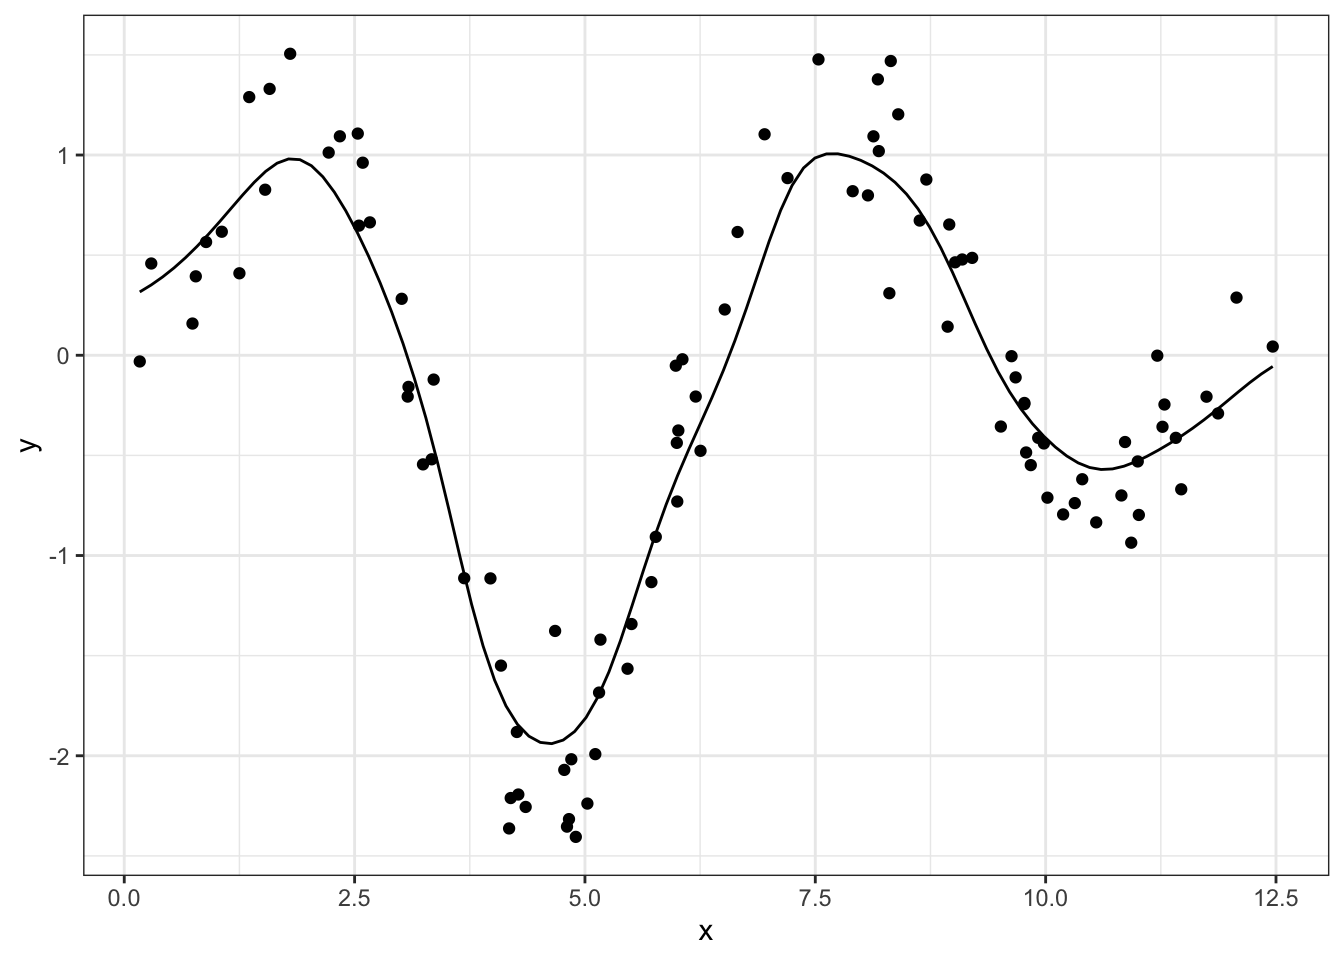
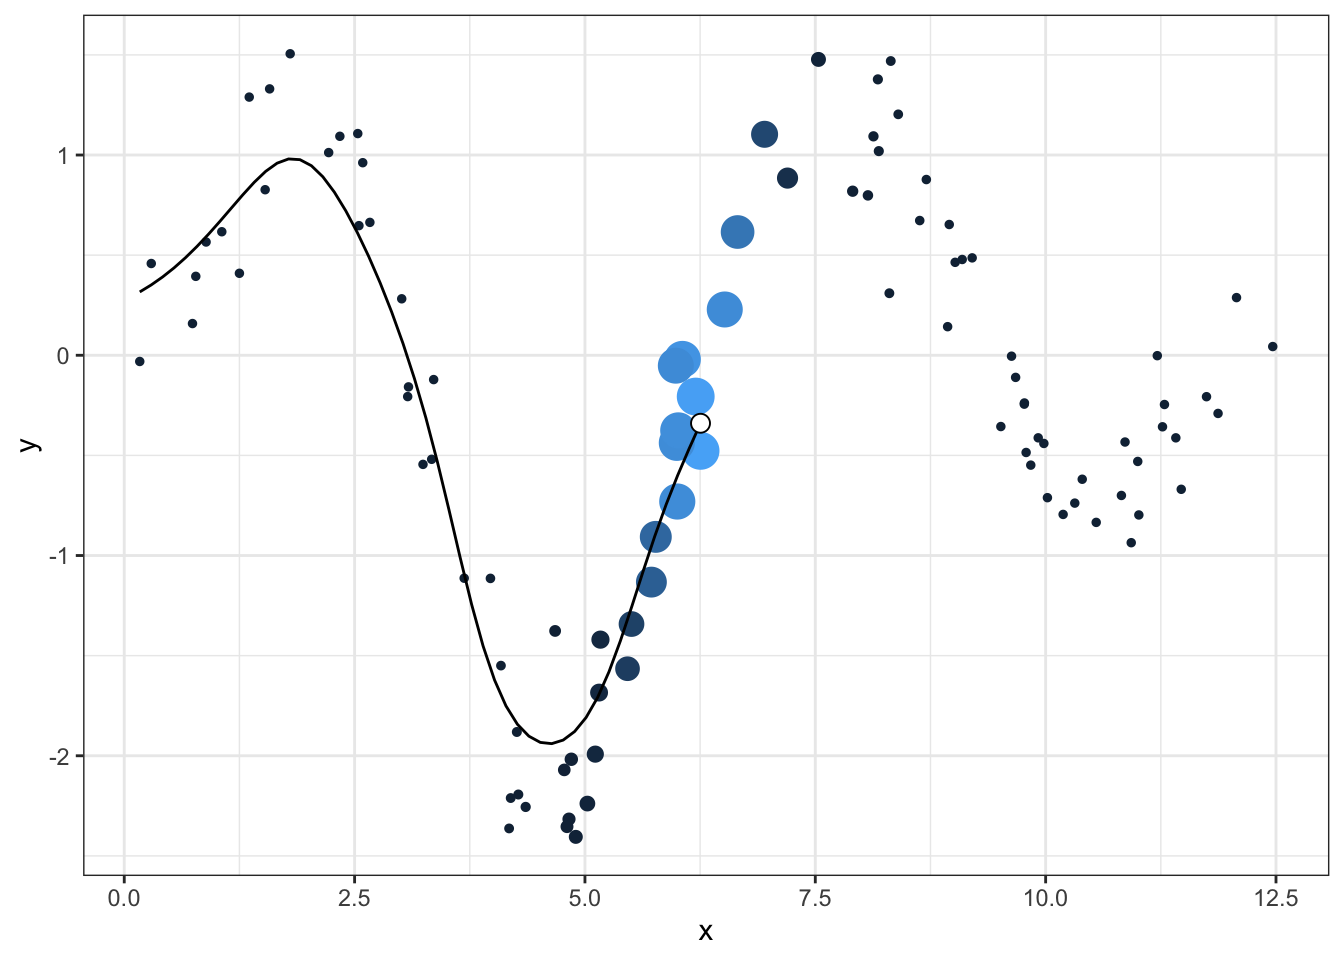
start of kernel4

diff --git a/content/posts/2021-02-13-visualizing-how-a-kernel-draws-a-smooth-line/index.html b/content/posts/2021-02-13-visualizing-how-a-kernel-draws-a-smooth-line/index.html
@@ -10,13 +10,13 @@ lastmod: '2021-02-13T13:19:38-05:00'
 layout: post
 type: post
 highlight: yes
-summary: blah.
+summary: How does software like Excel or R trace a smooth line through a series of points? It's easier to understand by visualizing how new values are created as a weighted mean of the existing data.
 ---
 
 
 
 <p>A few years ago, I <a href="https://towardsdatascience.com/how-does-a-computer-draw-a-smooth-line-a484176ac24e" target="_blank">wrote a script</a> that produced GIFs like the one below that visualize how a kernel smoother draws a line through a series of points:</p>
-<p><img src="img/kernel.gif" /></p>
+<p><img src="kernel.gif" /></p>
 <p>It was a quick but fun project that actually helped me understand how local regression works, so I figured I’d port it over to my new site and walk through the logic.</p>
 <p>It seems a little simple to state, but the point of any (two-dimensional) line is to map x-values to y-values. The challenge of drawing a smooth curve, as opposed to a straight line which could be achieved with ordinary least squares, is to let the line follow the points as it passes through their neighborhoods while ignoring data that is more distant.</p>
 <p>The way that kernel regression achieves such “local” effects is by defining a function (typically denoted as <span class="math inline">\(K\)</span>) that attributes weights to all the existing points based on how close they are to a theoretical new point.</p>
@@ -36,30 +36,46 @@ df %&gt;%
   ggplot(aes(x, y)) +
   geom_point()</code></pre>
 <p><img src="index_files/figure-html/unnamed-chunk-1-1.png" width="672" /></p>
-<p>So how are we gonna trace a line through this data? Well for any point on this theoretical curve, the y-value will be a weighted mean of nearby points. The only ___ is to define a weighting scheme, which is where we turn to a Gaussian kernel. We take the density, which works well because this function peaks at a distance of 0 (i.e. at the x-value in question), but then quickly drops off to either side.</p>
-<p>The function gk takes as input the original dataset and also a new X value and returns the weight that each of the former should have on the latter based on proximity.</p>
+<p>So how are we gonna trace a line through this data? Well for any point on this theoretical curve, the y-value will be a weighted mean of nearby points. The way we define those weights is with a <a href="https://en.wikipedia.org/wiki/Kernel_smoother#Gaussian_kernel_smoother" target="_blank">Gaussian kernel</a>, which uses the useful “bell” shape of a normal distribution to assign greater influence to the existing points that are close to our incoming one.</p>
+<p>The kernel is centered at the value of the new point so that the weight is maximized for existing points that are close to the new one, in the same way that the most likely values from a normal distribution are close to its mean. Below, we get the <code>y_smoothed</code> values for a sequence of <code>x_new</code> ponts by defining these weights with the <code>dnorm</code> function and applying them to the respective y-values</p>
 <pre class="r"><code>x_new &lt;- seq(min(x), max(x), length.out = 100)
 
 y_smoothed &lt;- map_dbl(x_new, ~sum(dnorm(x, mean = .x) * y)/
                         sum(dnorm(x, mean = .x)))
 
 df_smoothed &lt;- data.frame(x_new, y_smoothed)</code></pre>
+<p>Unfortunately, this curve is a little too smoothed, in the sense that the line isn’t permitted to follow the peaks and valleys very closely because it’s being drawn back to intermediate points too heavily.</p>
 <pre class="r"><code>df %&gt;%
   ggplot(aes(x, y)) +
   geom_point() +
   geom_line(aes(x_new, y_smoothed), data = df_smoothed)</code></pre>
 <p><img src="index_files/figure-html/unnamed-chunk-3-1.png" width="672" /></p>
+<p>The fix is to reduce the standard deviation argument of our Gaussian kernel, which will tighten the distribution and therefore attribute smaller weights to more distant points:</p>
 <pre class="r"><code>x_new &lt;- seq(min(x), max(x), length.out = 100)
 
 y_smoothed &lt;- map_dbl(x_new, ~sum(dnorm(x, mean = .x, sd = 0.5) * y)/
                         sum(dnorm(x, mean = .x, sd = 0.5)))
 
-df_smoothed &lt;- data.frame(x_new, y_smoothed)</code></pre>
-<pre class="r"><code>df %&gt;%
+df_smoothed &lt;- data.frame(x_new, y_smoothed)
+
+df %&gt;%
   ggplot(aes(x, y)) +
   geom_point() +
   geom_line(aes(x_new, y_smoothed), data = df_smoothed)</code></pre>
-<p><img src="index_files/figure-html/unnamed-chunk-5-1.png" width="672" /></p>
+<p><img src="index_files/figure-html/unnamed-chunk-4-1.png" width="672" /></p>
+Okay let’s make this pretty. At each value of <code>x_new</code>, we want:
+<ul>
+<li>
+all the original data, but colored and sized by its weight on the current point
+</li>
+<li>
+the smooth line up to the current point
+</li>
+<li>
+a single larger point as the “head” of the smoother
+</li>
+</ul>
+<p>We can handle the first item simply by repeating the <code>dnorm</code> logic used in the smoother and passing it to the <code>size</code> and <code>col</code> aesthetics. After that, we can just add additional data layers while making sure to cut out later data</p>
 <pre class="r"><code>idx &lt;- 50
 
 df %&gt;%
@@ -70,7 +86,8 @@ df %&gt;%
   geom_point(aes(x_new, y_smoothed), data = df_smoothed %&gt;% filter(x_new == x_new[idx]),
              size = 3, fill = &quot;white&quot;, col = &quot;black&quot;, shape = 21) +
   theme(legend.position = &quot;none&quot;)</code></pre>
-<p><img src="index_files/figure-html/unnamed-chunk-6-1.png" width="672" /></p>
+<p><img src="index_files/figure-html/unnamed-chunk-5-1.png" width="672" />
+Now we can just loop over all the new points, make each graph, and save it with <code>ggsave</code>:</p>
 <pre class="r"><code>for (idx in 1:length(x_new)){
   
   plt &lt;- df %&gt;%
@@ -84,6 +101,7 @@ df %&gt;%
   
   ggsave(plt, width = 6, height = 4, filename = paste0(&quot;kernel_&quot;, idx, &quot;.png&quot;))
 }</code></pre>
+<p>Threading all these individual images into a GIF requires the <code>magick</code> package. I used the logic from <a href="http://www.nagraj.net/notes/gifs-in-r/" target="_blank">this post</a> as guidance:</p>
 <pre class="r"><code>img_files &lt;- paste0(&quot;kernel_&quot;, 1:length(x_new), &quot;.png&quot;)
 gif &lt;- img_files %&gt;% 
   map(image_read) %&gt;%
@@ -92,4 +110,6 @@ gif &lt;- img_files %&gt;%
 
 image_write(image = gif,
             path = &quot;kernel.gif&quot;)</code></pre>
-<p><img src="img/kernel.gif" /></p>
+<p>And voila!</p>
+<p><img src="kernel.gif" /></p>
+<p>Most of the joy I got out of making these GIFs, both years ago and more recently, is in manipulating <code>ggplot</code> to create a neat little animation. But I do always also appreciate using methods like kernel smoothers or local regression or nearest-neighbor algorithms because they codify something that I think most people know intuitively: the closer you are to something, the more you can influence it.</p>
